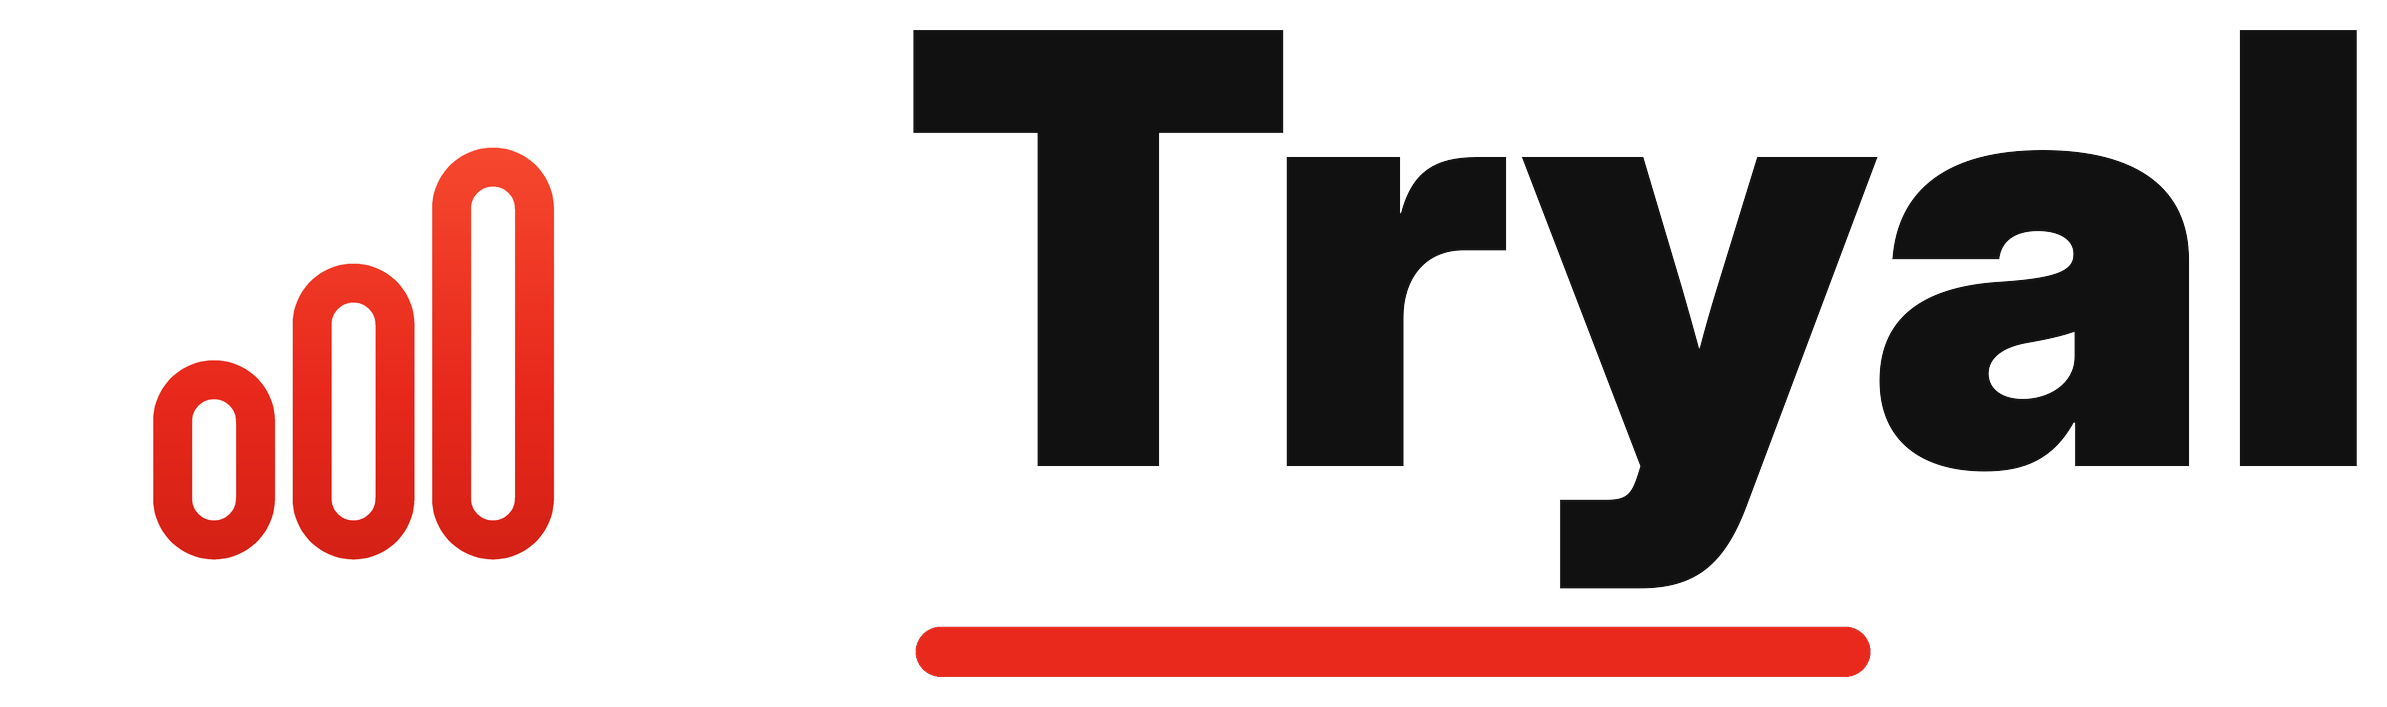
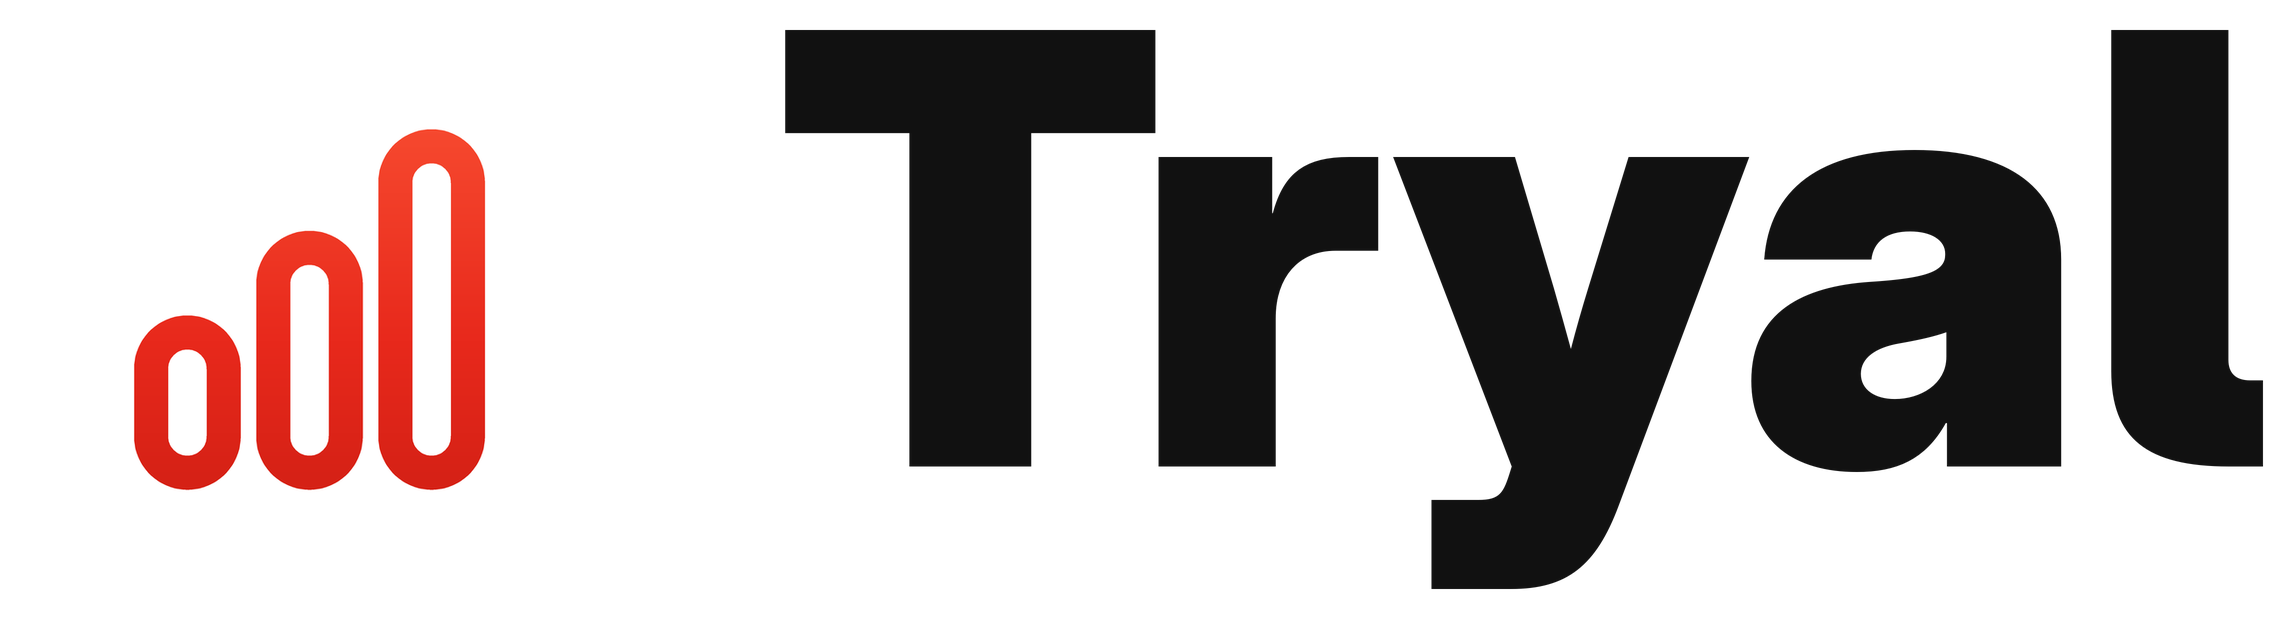
Tryal wordmark: no underline, l with a tail so it doesn't read as 'Try AI'
Claude-Session: https://claude.ai/code/session_01FFsGQ1BiM3wQ7aZ3MPooSv

Changed region(s): [[0.3406, 0.0307, 0.9908, 0.7981], [0.031, 0.1842, 0.2477, 0.7981], [0.3716, 0.7981, 0.8051, 0.9822]]

diff --git a/expo/app/(tabs)/index.tsx b/expo/app/(tabs)/index.tsx
@@ -442,7 +442,7 @@ const styles = StyleSheet.create({
   brandRow: { flexDirection: "row", alignItems: "center", gap: 8 },
   headerActions: { flexDirection: "row", alignItems: "center", gap: 10 },
   // The wordmark file is tightly cropped (aspect about 2.13:1), so it sits flush with the header's edge.
-  brandLogo: { width: 60, height: 28 },
+  brandLogo: { width: 62, height: 25 },
   bellBtn: {
     width: 36,
     height: 36,

diff --git a/expo/app/(auth)/sign-up.tsx b/expo/app/(auth)/sign-up.tsx
@@ -278,7 +278,7 @@ const styles = StyleSheet.create({
     marginTop: 8,
   },
   header: { alignItems: "center", gap: 8, marginTop: 14, marginBottom: 22 },
-  brandLogo: { width: 64, height: 30 },
+  brandLogo: { width: 66, height: 27 },
   title: { color: theme.text, fontSize: 26, fontWeight: "900" as const },
   sub: { color: theme.textMuted, fontSize: 15 },
   form: { gap: 14 },

diff --git a/expo/app/(auth)/sign-in.tsx b/expo/app/(auth)/sign-in.tsx
@@ -139,7 +139,7 @@ const styles = StyleSheet.create({
     marginTop: 8,
   },
   header: { alignItems: "center", gap: 8, marginTop: 20, marginBottom: 28 },
-  brandLogo: { width: 64, height: 30 },
+  brandLogo: { width: 66, height: 27 },
   title: {
     color: theme.text,
     fontSize: 26,

diff --git a/expo/app/(auth)/welcome.tsx b/expo/app/(auth)/welcome.tsx
@@ -108,7 +108,7 @@ const styles = StyleSheet.create({
     justifyContent: "center",
     gap: 12,
   },
-  brandLogo: { width: 136, height: 64 },
+  brandLogo: { width: 140, height: 56 },
   tagline: {
     color: theme.textMuted,
     fontSize: 15,
